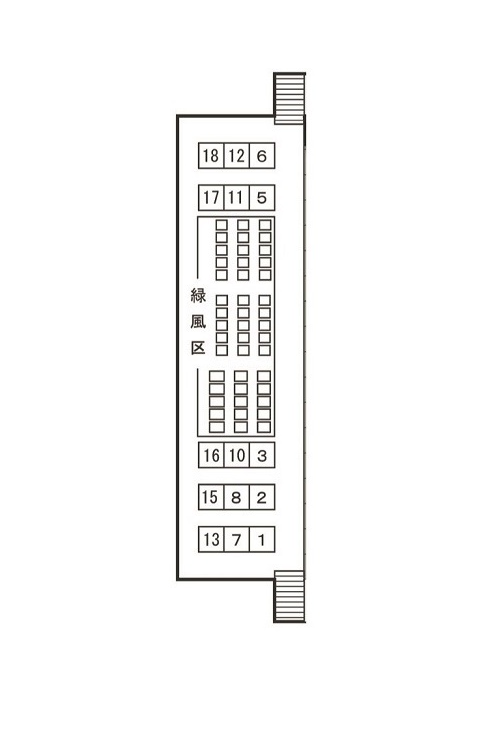
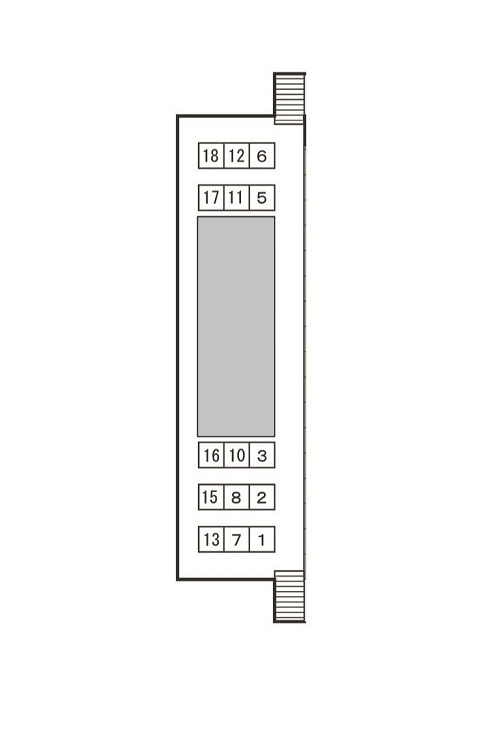
緑風区データ作成等

Changed region(s): [[0.36, 0.276, 0.57, 0.5827]]

diff --git a/wwwroot/js/PlotSelection.js b/wwwroot/js/PlotSelection.js
@@ -20,6 +20,13 @@ document.addEventListener('DOMContentLoaded', () => {
             sectionDatas.forEach(function (section) {
                 // 空きあり場合（空き以外も初回のみ描画）
                 if (section.noReserveCount >= 0) {
+                    // ↓↓↓ 画像作成用処理（通常コメント化）↓↓↓
+                    //section.noReserveCount = 0;
+                    //if (section.sectionCode == "緑風") {
+                    //    section.noReserveCount = 1;
+                    //}
+                    // ↑↑↑ 画像作成用処理（通常コメント化）↑↑↑
+
                     const sectionCoords = coordDatas.find(data => data["SectionCode"] == section.sectionCode);
                     sectionCoords.Coordinates.forEach(function (coords) {
                         // 矩形と名前を描画
@@ -32,7 +39,7 @@ document.addEventListener('DOMContentLoaded', () => {
             });
         })
         .catch(error => {
-            console.error('There was a problem with the fetch operation:', error);
+            //console.error('There was a problem with the fetch operation:', error);
     });
 });
 

diff --git a/wwwroot/js/PlotDetails.js b/wwwroot/js/PlotDetails.js
@@ -19,23 +19,9 @@ document.addEventListener('DOMContentLoaded', () => {
             initMap();
         })
         .catch(error => {
-            console.error('There was a problem with the fetch operation:', error);
+            //console.error('There was a problem with the fetch operation:', error);
         });
 });
-
-// 矩形を描画
-function drawRect(coordinates) {
-    ctx.beginPath();
-    ctx.moveTo(coordinates[0].x, coordinates[0].y);
-    for (let i = 1; i < coordinates.length; i++) {
-        ctx.lineTo(coordinates[i].x, coordinates[i].y);
-    }
-
-    ctx.closePath();
-    ctx.fillStyle = '#ffea07';
-    ctx.fill();
-    ctx.stroke();
-}
 
 
 // マップ初期表示

diff --git a/Pages/common/Utils.cs b/Pages/common/Utils.cs
@@ -21,8 +21,8 @@ namespace YasiroRegrave.Pages.common
             dst = dst.Replace("ｼﾝ", "新");
             dst = dst.Replace("ﾄｸ", "特");
 
-            // 接尾語
-            if (dst != "日蓮" && dst != "緑風")
+            // 接尾語（付与可）
+            //if (dst != "日蓮" && dst != "緑風")
             {
                 dst = dst + "区";
             }
@@ -141,85 +141,5 @@ namespace YasiroRegrave.Pages.common
                 }
             }
         }
-
-        ///// <summary>
-        ///// 画像を圧縮
-        ///// </summary>
-        ///// <param name="imageFile"></param>
-        ///// <returns>IFormFile</returns>
-        //public static IFormFile CompressImage(IFormFile imageFile)
-        //{
-        //    // 画像サイズ閾値：700KB
-        //    var MAX_SIZE_BYTES = 700 * 1024;
-
-        //    // 画像の品質を0から100の間で制限（元画像／閾値の30％）
-        //    var quality = Math.Min(100, Math.Max(0, MAX_SIZE_BYTES * 30 / imageFile.Length));
-
-        //    var fileName = imageFile.FileName;
-
-        //    // JPEG形式またはPNG形式の画像を処理
-        //    if (imageFile.ContentType != "image/jpeg" && imageFile.ContentType != "image/png")
-        //    {
-        //        return imageFile;
-        //    }
-
-        //    // 画像サイズが閾値を超える場合、画像を圧縮
-        //    if (imageFile.Length >= MAX_SIZE_BYTES)
-        //    {
-        //        using (var memoryStream = new MemoryStream())
-        //        {
-        //            // 画像をメモリストリームにコピー
-        //            imageFile.CopyTo(memoryStream);
-        //            memoryStream.Position = 0; // ストリームの位置をリセット
-
-        //            // メモリストリームで画像の圧縮を行う
-        //            using (var image = Image.FromStream(memoryStream))
-        //            {
-        //                // 圧縮した画像を保存するメモリストリーム
-        //                var compressedStream = new MemoryStream();
-
-        //                // 画像のエンコーダー情報を取得
-        //                var format = imageFile.ContentType == "image/jpeg" ? ImageFormat.Jpeg : ImageFormat.Png;
-        //                var codecInfo = GetEncoderInfo(format);
-        //                if (codecInfo == null)
-        //                {
-        //                    return imageFile;
-        //                }
-
-        //                var encoder = System.Drawing.Imaging.Encoder.Quality;
-        //                var encoderParameters = new EncoderParameters(1);
-        //                encoderParameters.Param[0] = new EncoderParameter(encoder, quality);
-
-        //                // 画像を圧縮して保存
-        //                image.Save(compressedStream, codecInfo, encoderParameters);
-
-        //                // 圧縮された画像のファイル名を生成
-        //                var compressedFileName = fileName;
-
-        //                // 圧縮された画像を返す
-        //                return new FormFile(compressedStream, 0, compressedStream.Length, "compressedImage", compressedFileName);
-        //            }
-        //        }
-        //    }
-        //    else
-        //    {
-        //        // 画像変更なし
-        //        return imageFile;
-        //    }
-        //}
-
-        //// 画像のエンコーダー情報を取得
-        //private static ImageCodecInfo GetEncoderInfo(ImageFormat format)
-        //{
-        //    var codecs = ImageCodecInfo.GetImageDecoders();
-        //    foreach (var codec in codecs)
-        //    {
-        //        if (codec.FormatID == format.Guid)
-        //        {
-        //            return codec;
-        //        }
-        //    }
-        //    return null;
-        //}
     }
 }
